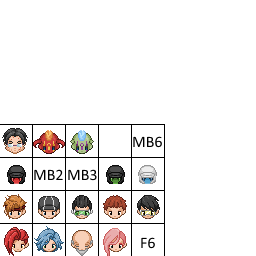
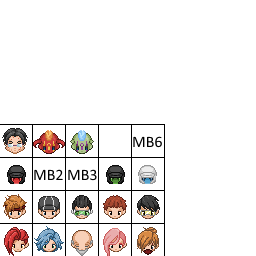
[ADD] Friendly Units

Changed region(s): [[0.5312, 0.875, 0.625, 1.0]]

diff --git a/opengltest/Enemy.cpp b/opengltest/Enemy.cpp
@@ -157,7 +157,37 @@ Enemy::Enemy(ProjectileManager* projMan, EntityManager* entityMan, SpriteSheetIn
 		texture->addSpriteAnimRow(2, 0, 6*h+7, w + 1, 0, 7);
 		texture->addSpriteAnimRow(3, 0, 7*h+8, w + 1, 0, 7);
 	}
-	else
+	else if (entityType < -100)
+	{
+		int fNum = entityType + 100;
+
+		hp = 100;
+		maxHP = 100;
+		damage = 0;
+		w = 34;
+		h = 46;
+
+		std::string filePath;
+		char buff[16];
+		filePath = "assets/F";
+		_ltoa_s(entityType, buff, 10);
+		filePath.append(buff);
+		filePath.append(".png");
+		texture->loadSpriteSheet(filePath.c_str());
+		texture->setSpriteFrameSize(w, h);
+
+		texture->addSpriteAnimRow(4, 0, 1, w + 1, 0, 4);
+		texture->addSpriteAnimRow(5, 0, 48, w + 1, 0, 4);
+		texture->addSpriteAnimRow(6, 0, 95, w + 1, 0, 4);
+		texture->addSpriteAnimRow(7, 0, 142, w + 1, 0, 4);
+		texture->addSpriteAnimRow(0, 0, 189, w + 1, 0, 4);
+		texture->addSpriteAnimRow(1, 0, 236, w + 1, 0, 4);
+		texture->addSpriteAnimRow(2, 0, 283, w + 1, 0, 4);
+		texture->addSpriteAnimRow(3, 0, 330, w + 1, 0, 4);
+
+		texture->addSpriteAnimRow(8, 0, 189, w + 1, 47, 4);
+	}
+	else if (entityType > 0 && entityType <= 6)
 	{
 		hp = 350;
 		maxHP = 350;
@@ -295,7 +325,7 @@ RECT Enemy::getRect()
 
 void Enemy::updateAiState()
 {
-	if (entityType == NEUTRAL1 || entityType == NEUTRAL2 || entityType == NEUTRAL3)
+	if (entityType < 0)
 	{
 		if (hp < maxHP)
 		{
@@ -391,7 +421,7 @@ void Enemy::Patrol()
 		}
 	}
 
-	if (!Safe() && (entityType !=  NEUTRAL1 && entityType != NEUTRAL2 && entityType != NEUTRAL3))
+	if (!Safe() && (entityType > 0))
 		ChangeState(state_chase, 0);
 }
 

diff --git a/opengltest/Entity.h b/opengltest/Entity.h
@@ -26,7 +26,13 @@ enum entitytype {
 	MINIBOSS3 = 3,
 	MINIBOSS4 = 4,
 	MINIBOSS5 = 5,
-	MINIBOSS6 = 6
+	MINIBOSS6 = 6,
+	F1 = -101,
+	F2 = -102,
+	F3 = -103,
+	F4 = -104,
+	F5 = -105,
+	F6 = -106,
 };
 #endif
 class Item;

diff --git a/opengltest/Dialog.h b/opengltest/Dialog.h
@@ -22,7 +22,13 @@ enum entitytype {
 	MINIBOSS3 = 3,
 	MINIBOSS4 = 4,
 	MINIBOSS5 = 5,
-	MINIBOSS6 = 6
+	MINIBOSS6 = 6,
+	F1 = -101,
+	F2 = -102,
+	F3 = -103,
+	F4 = -104,
+	F5 = -105,
+	F6 = -106,
 };
 #endif
 
